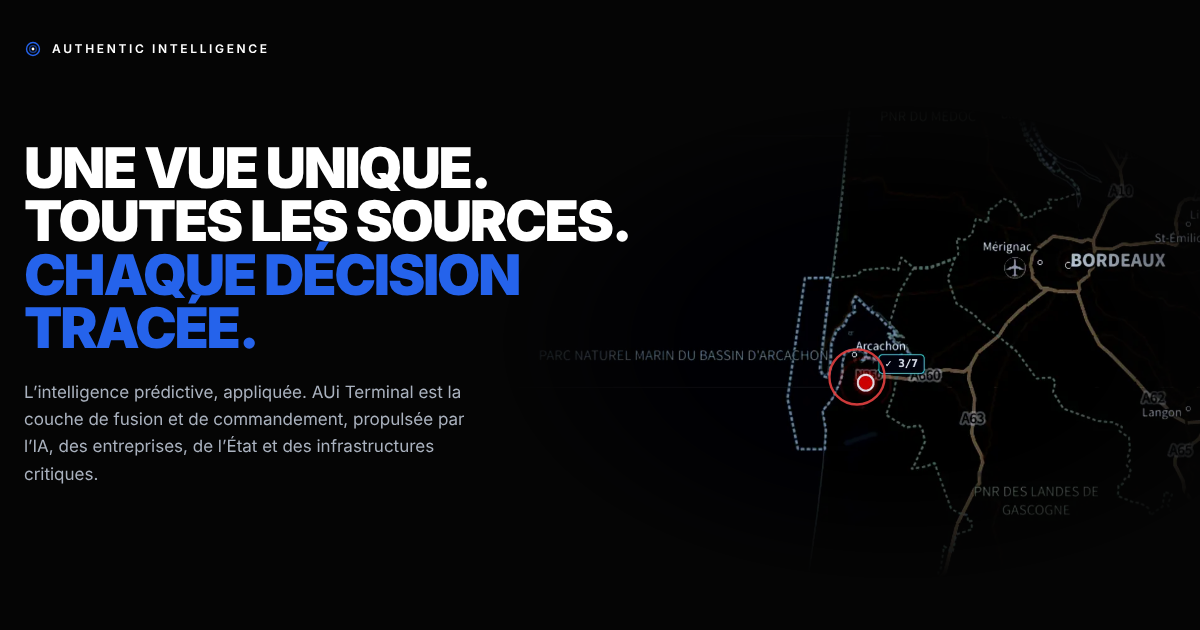
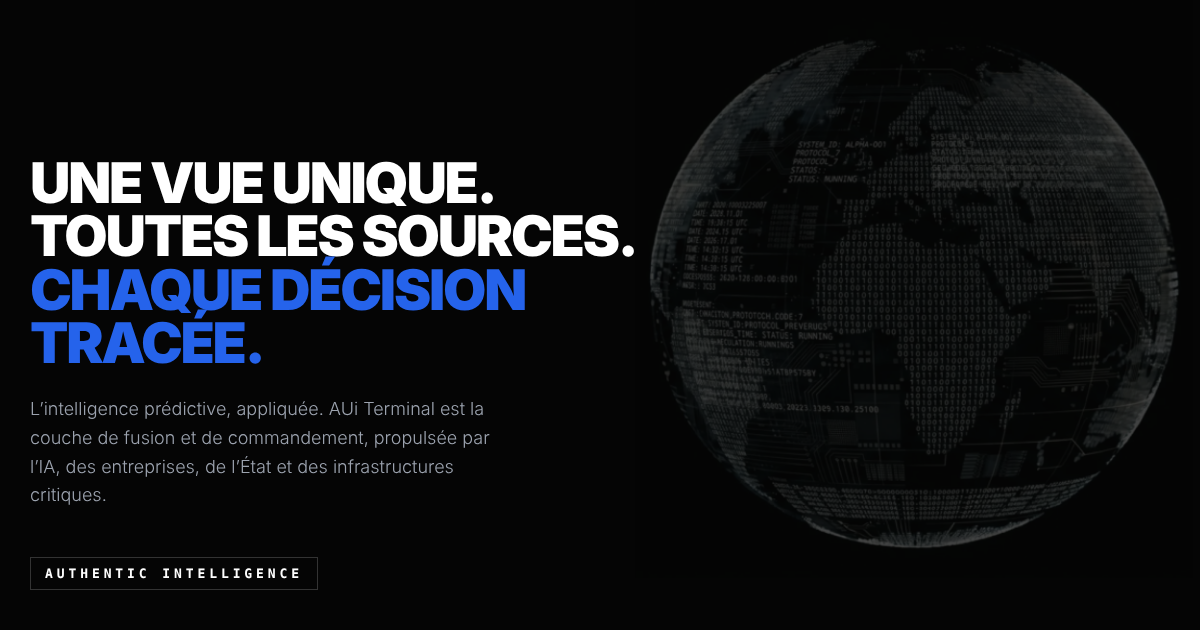
Restore the hero globe
Bring back the globe with its spotlight animation in place of the map
backdrop, and restore the matching link-preview images and IGN credit.
All other design changes and the contact form stay.

Claude-Session: https://claude.ai/code/session_01HvVnf48dCKridf2tsf38YM

diff --git a/components/Site.js b/components/Site.js
@@ -193,10 +193,17 @@ const CSS = `
   }
   html { scroll-behavior: smooth; scroll-padding-top: 84px; background: var(--bg); }
   body { font-family: var(--sans); color: var(--text); -webkit-font-smoothing: antialiased; -moz-osx-font-smoothing: grayscale; }
-  @media (prefers-reduced-motion: reduce) { html { scroll-behavior: auto; } .pulse { animation: none; } }
+  @media (prefers-reduced-motion: reduce) { html { scroll-behavior: auto; } .spotlight-lens { animation: none; } }
 
   @keyframes fadeIn { from { opacity: 0; } to { opacity: 1; } }
-  @keyframes pulse { 0% { transform: translate(-50%, -50%) scale(0.4); opacity: 0.9; } 100% { transform: translate(-50%, -50%) scale(2.6); opacity: 0; } }
+  @keyframes dynamicSpotlight {
+    0% { cx: 320px; cy: 300px; r: 75px; }
+    25% { cx: 480px; cy: 340px; r: 80px; }
+    50% { cx: 450px; cy: 500px; r: 85px; }
+    75% { cx: 300px; cy: 460px; r: 80px; }
+    100% { cx: 320px; cy: 300px; r: 75px; }
+  }
+  .spotlight-lens { animation: dynamicSpotlight 16s infinite ease-in-out; }
 
   .page { background: var(--bg); min-height: 100vh; padding: 0 20px; overflow-x: hidden; }
   .main { max-width: 1200px; margin: 0 auto; animation: fadeIn 0.4s ease-out; }
@@ -242,11 +249,7 @@ const CSS = `
   .hero-title { font-weight: 900; line-height: 0.95; letter-spacing: -0.04em; margin: 0 0 24px; }
   .hero-sub { font: 400 17px/1.6 var(--sans); color: var(--text-2); max-width: 470px; margin: 0 auto; }
   .hero-cta { display: flex; flex-wrap: wrap; gap: 12px; justify-content: center; margin-top: 32px; }
-  .hero-visual { position: absolute; z-index: 0; top: 50%; left: 50%; transform: translate(-50%, -50%); width: 180vw; max-width: 900px; aspect-ratio: 1600 / 877; opacity: 0.22; pointer-events: none;
-    -webkit-mask-image: radial-gradient(ellipse 55% 60% at 55% 55%, #000 35%, transparent 72%); mask-image: radial-gradient(ellipse 55% 60% at 55% 55%, #000 35%, transparent 72%); }
-  .hero-visual img { width: 100%; height: 100%; display: block; }
-  .pulse { position: absolute; left: 50.85%; top: 61.3%; width: 44px; height: 44px; border-radius: 50%; border: 2px solid #ef4444; transform: translate(-50%, -50%); animation: pulse 2.6s ease-out infinite both; }
-  .pulse-2 { animation-delay: 1.3s; }
+  .globe-container { position: absolute; z-index: 0; top: 50%; left: 50%; transform: translate(-50%, -50%); width: 125vw; height: 125vw; max-width: 640px; max-height: 640px; opacity: 0.3; pointer-events: none; }
 
   /* Sections */
   .section { border-top: 1px solid var(--line); padding: 64px 0; }
@@ -354,7 +357,7 @@ const CSS = `
     .hero-layout { flex-direction: row; text-align: left; align-items: center; min-height: 520px; margin-top: 150px; padding: 0 0 48px; }
     .hero-sub { margin: 0; }
     .hero-cta { justify-content: flex-start; }
-    .hero-visual { top: 50%; left: auto; right: -14vw; transform: translateY(-50%); width: 1000px; max-width: none; opacity: 0.95; }
+    .globe-container { top: 45%; left: auto; right: -2vw; transform: translateY(-50%); width: 580px; height: 580px; max-width: none; max-height: none; opacity: 1; }
     .section { padding: 92px 0; }
     .section-head { margin-bottom: 56px; }
     .cols-3 { grid-template-columns: repeat(3, 1fr); }

diff --git a/content/site.js b/content/site.js
@@ -193,7 +193,7 @@ export const content = {
         sections: [
           { h: 'Publisher', p: ['This website is published by Authentic Intelligence Inc. Contact: {email}.'] },
           { h: 'Hosting', p: ['This website is hosted by Vercel Inc., 440 N Barranca Avenue #4133, Covina, CA 91723, United States (vercel.com).'] },
-          { h: 'Intellectual property', p: ['All content on this website, including text, graphics, the AUi Terminal name and interface images, belongs to Authentic Intelligence Inc. unless stated otherwise, and may not be reproduced without permission.', 'Map data shown in product images and site imagery: © IGN – Géoplateforme.'] },
+          { h: 'Intellectual property', p: ['All content on this website, including text, graphics, the AUi Terminal name and interface images, belongs to Authentic Intelligence Inc. unless stated otherwise, and may not be reproduced without permission.', 'Map data shown in product images: © IGN – Géoplateforme.'] },
           { h: 'Product images', p: ['Product images show a demonstration scenario. Values from sources marked as simulated in those images do not reflect live data.'] }
         ]
       }
@@ -371,7 +371,7 @@ export const content = {
         sections: [
           { h: 'Éditeur', p: ['Ce site est édité par Authentic Intelligence Inc. Contact : {email}.'] },
           { h: 'Hébergement', p: ['Ce site est hébergé par Vercel Inc., 440 N Barranca Avenue #4133, Covina, CA 91723, États-Unis (vercel.com).'] },
-          { h: 'Propriété intellectuelle', p: ['L’ensemble des contenus de ce site, notamment les textes, les éléments graphiques, le nom AUi Terminal et les images d’interface, appartient à Authentic Intelligence Inc., sauf mention contraire, et ne peut être reproduit sans autorisation.', 'Données cartographiques figurant dans les images produit et les visuels du site : © IGN – Géoplateforme.'] },
+          { h: 'Propriété intellectuelle', p: ['L’ensemble des contenus de ce site, notamment les textes, les éléments graphiques, le nom AUi Terminal et les images d’interface, appartient à Authentic Intelligence Inc., sauf mention contraire, et ne peut être reproduit sans autorisation.', 'Données cartographiques figurant dans les images produit : © IGN – Géoplateforme.'] },
           { h: 'Images produit', p: ['Les images produit présentent un scénario de démonstration. Les valeurs issues de sources signalées comme simulées dans ces images ne reflètent pas des données réelles.'] }
         ]
       }

diff --git a/pages/index.js b/pages/index.js
@@ -28,10 +28,17 @@ export default function Home() {
             </div>
           </div>
 
-          <div className="hero-visual" aria-hidden="true">
-            <img src="/hero-map.webp" alt="" width="1600" height="877" fetchpriority="high" />
-            <span className="pulse" />
-            <span className="pulse pulse-2" />
+          <div className="globe-container" aria-hidden="true">
+            <svg viewBox="0 0 780 780" style={{ width: '100%', height: '100%' }}>
+              <defs>
+                <mask id="lensReveal">
+                  <rect width="780" height="780" fill="white" />
+                  <circle className="spotlight-lens" fill="black" filter="blur(25px)" />
+                </mask>
+              </defs>
+              <image href="/globe-signal.webp" width="780" height="780" style={{ mixBlendMode: 'screen' }} />
+              <rect width="780" height="780" fill="#050505" fillOpacity="0.75" mask="url(#lensReveal)" />
+            </svg>
           </div>
         </section>
 
